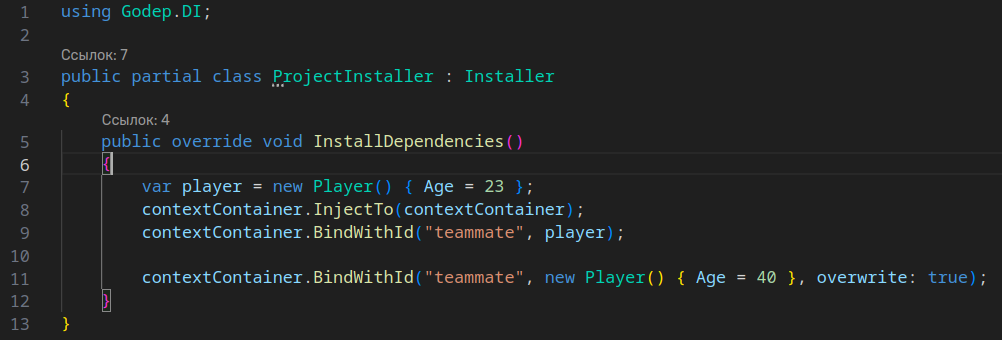
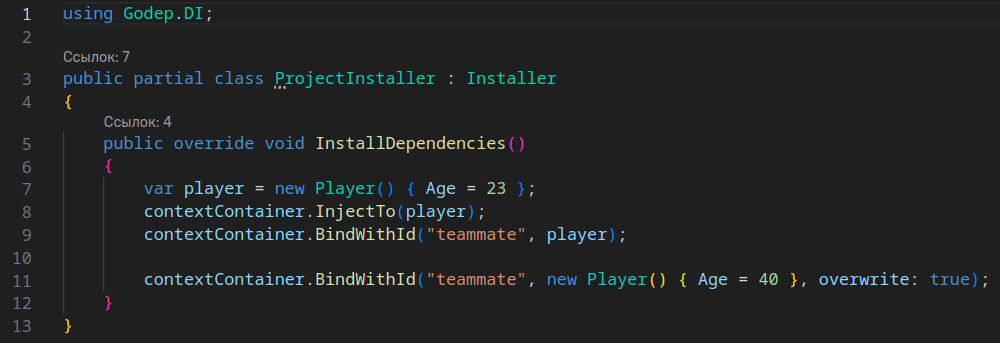
Fixing documentation

diff --git a/Sample/Source/Installers/ProjectInstaller.cs b/Sample/Source/Installers/ProjectInstaller.cs
@@ -5,7 +5,7 @@ public partial class ProjectInstaller : Installer
     public override void InstallDependencies()
     {
         var player = new Player() { Age = 23 };
-        contextContainer.InjectTo(contextContainer);
+        contextContainer.InjectTo(player);
         contextContainer.BindWithId("teammate", player);
 
         contextContainer.BindWithId("teammate", new Player() { Age = 40 }, overwrite: true);

diff --git a/README.md b/README.md
@@ -1,9 +1,9 @@
 
-<img src="addons/godep/graphics/scene_context.png" height='68' style="align:center;image-rendering:pixelated;">
+<img src="Docs/Media/Godep.png" height=68 width=68>
 
 # Godep: Godot C# dependency injection plugin
 Make DI easy again. Inspired by [Zenject](https://github.com/modesttree/Zenject). <br>
-<span style='color: red; font-size: 16px'> The plugin is in development. </span>
+:warning: <span style='color: red; font-size: 16px'> The plugin is in active development state. </span>
 
 ## :zap: <span style='color: lightgreen'>Features</span>
 - Project/Scene context separation

diff --git a/Docs/BaseSetup.md b/Docs/BaseSetup.md
@@ -16,7 +16,7 @@ Don't forget to trigger the build after adding new scripts to csharp
 4) Add this installer to the ProjectContext installer list.
 ![alt text](Media/BaseSetup/Create_ProjectInstaller.gif)
 
-5) Configure the installer to install the dependencies you need (See Binding and injection(?)). This assumes application-level dependencies (configs, authentication data, etc.)
+5) Configure the installer to install the dependencies you need (See Binding and injection(WIP)). This assumes application-level dependencies (configs, authentication data, etc.)
 
 
 ## SceneContext
